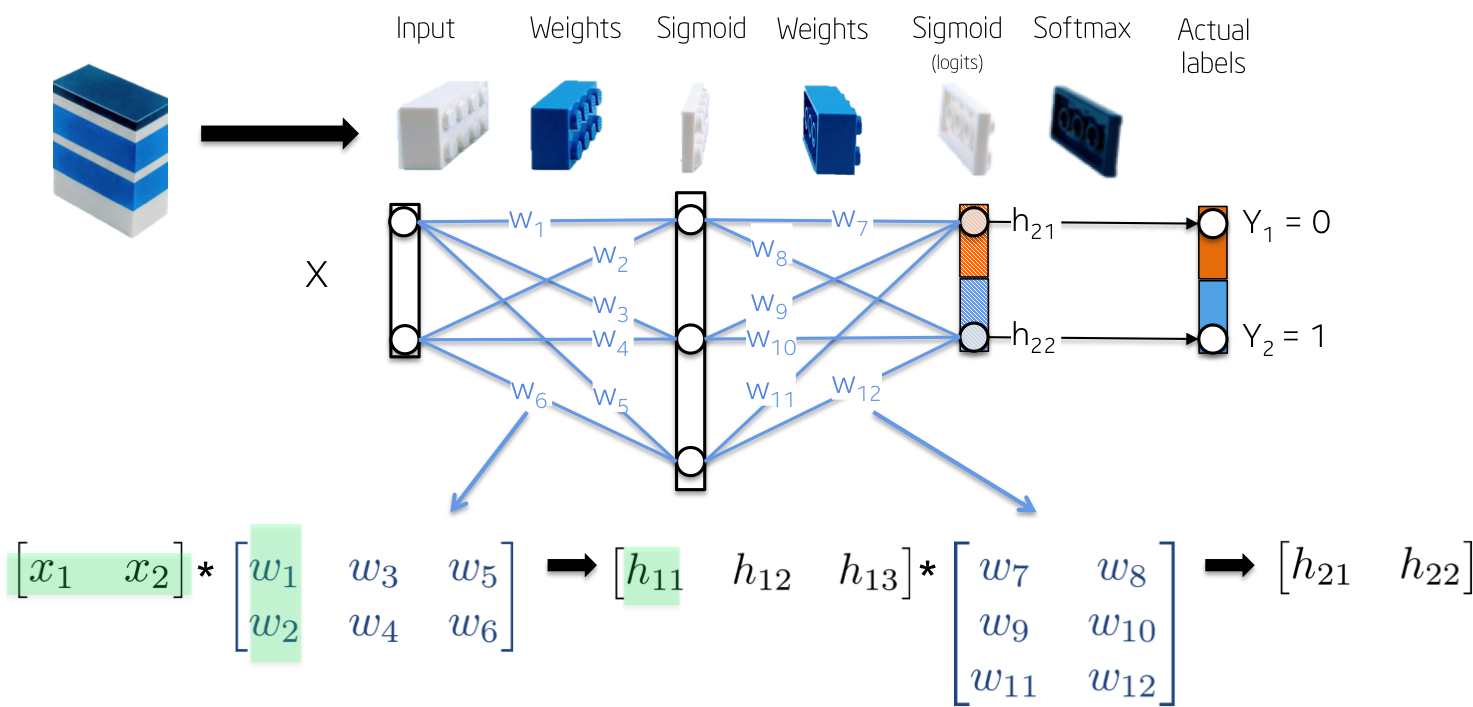
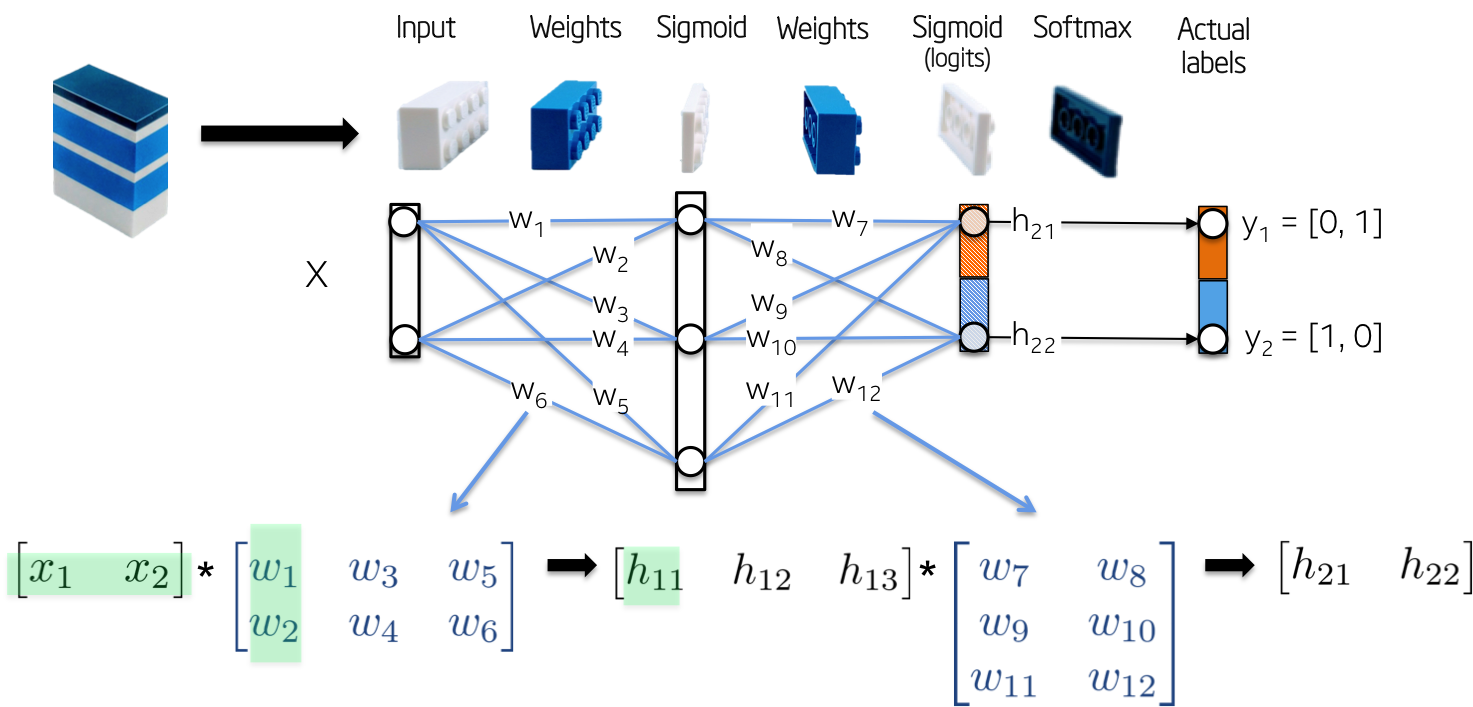
no message

diff --git a/docs/index.md b/docs/index.md
@@ -30,7 +30,7 @@ to separate classes with a straight line, a major class of problems that we find
 The topology of the network is simple:
 - Two dimensional vector as input X
 - Hidden layer h1 consists of three neurons and
-- Output layer h2 consists of two neurons since the XOR function returns either 0 (h1=[0,1]) or 1 (h2=[1,0])
+- Output layer h2 consists of two neurons since the XOR function returns either 0 (y1=[0, 1]) or 1 (y1 = [1, 0])
 
 More visually:
 ![alt text](https://raw.githubusercontent.com/omar-florez/scratch_mlp/master/docs/assets/overview2.png "Logo Title Text 1")
